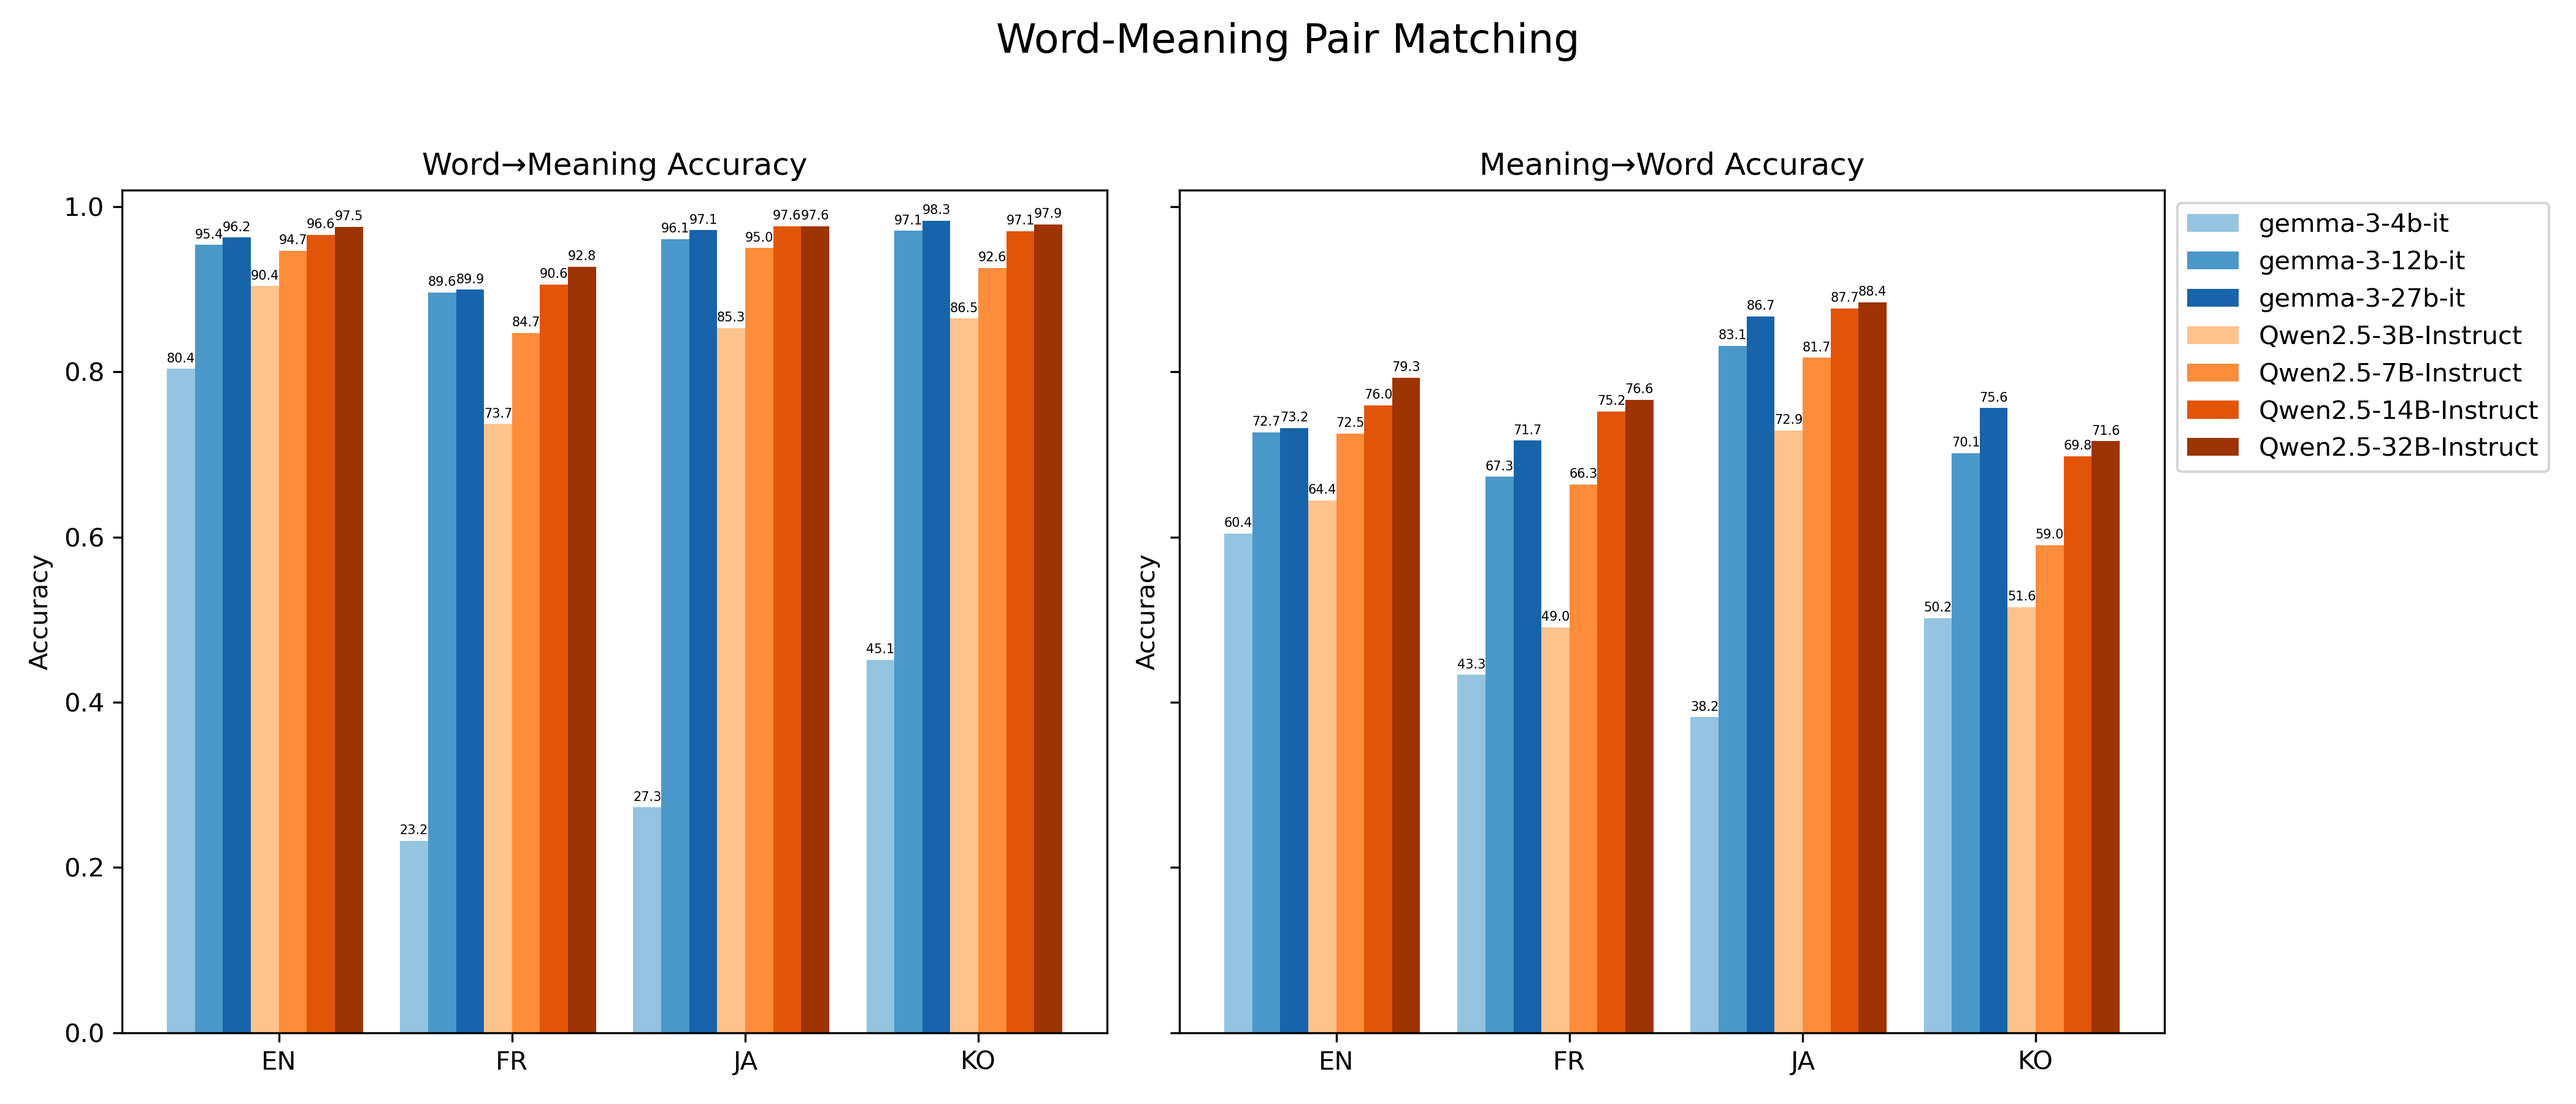
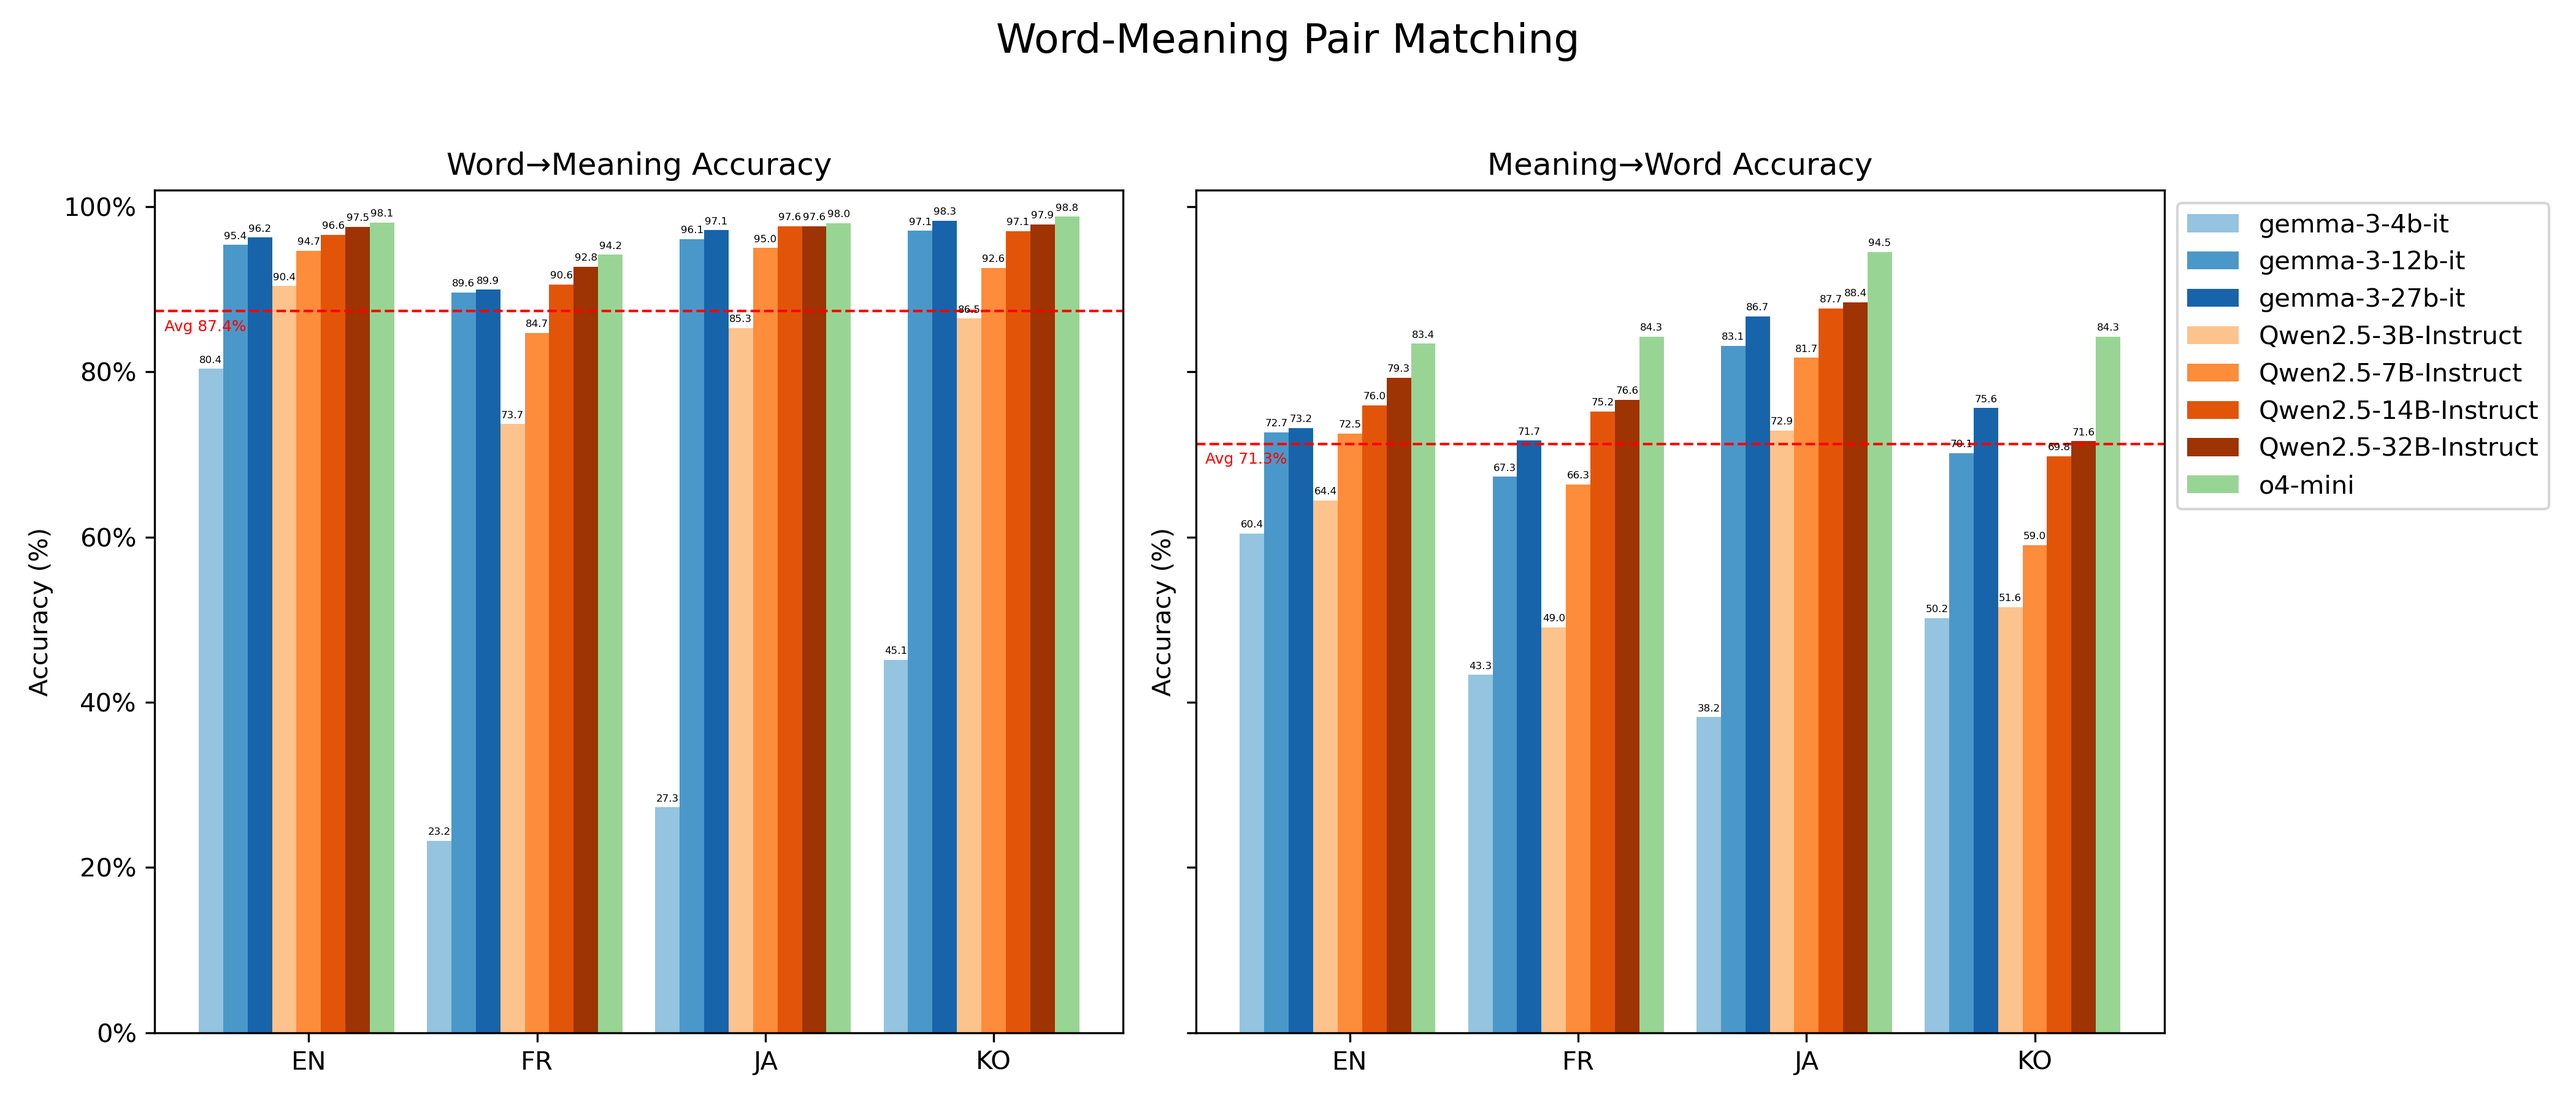
Add plots and results

diff --git a/analysis/plots/word_meaning_pair_matching_table.py b/analysis/plots/word_meaning_pair_matching_table.py
@@ -1,0 +1,101 @@
+import os
+import glob
+import json
+import pandas as pd
+import matplotlib.pyplot as plt
+
+# 1) Collect result file paths
+exp_dir = os.path.abspath(os.path.join(__file__, '..', '..', 'experiments', 'understanding'))
+files = glob.glob(os.path.join(exp_dir, 'all_results_*.json'))
+
+# 2) Load data into dict
+models = []
+cats = []
+data = {}
+for fp in files:
+    arr = json.load(open(fp, 'r', encoding='utf-8'))
+    for rec in arr:
+        m = rec['model'].split('/')[-1]
+        dp = os.path.basename(rec['data_path'])
+        lang = dp.split('-')[-1].split('.')[0].upper()
+        t = 'W→M' if 'unmasked' in dp else 'M→W'
+        cat = f'{lang} {t}'
+        data.setdefault(m, {})[cat] = rec['accuracy'] * 100
+        if m not in models: models.append(m)
+        if cat not in cats: cats.append(cat)
+
+# 3) Sort models and categories
+desired_order = [
+    'gemma-3-4b-it','gemma-3-12b-it','gemma-3-27b-it',
+    'Qwen2.5-3B-Instruct','Qwen2.5-7B-Instruct','Qwen2.5-14B-Instruct',
+    'Qwen2.5-32B-Instruct','Qwen2.5-72B-Instruct',
+    'gpt-4o','gpt-4.1','o4-mini'
+]
+models = [m for m in desired_order if m in models] + [m for m in models if m not in desired_order]
+cats = sorted(cats, key=lambda x: (x.split()[0], x.split()[1]))
+
+# 4) Build DataFrame
+df = pd.DataFrame(index=models, columns=cats)
+for m in models:
+    for c in cats:
+        df.at[m, c] = data.get(m, {}).get(c, float('nan'))
+df = df.round(1)
+
+# Convert numeric values to strings with one decimal place
+df_str = df.applymap(lambda x: f"{x:.1f}" if pd.notna(x) else "")
+
+# 5) Group columns by task and add subtotals
+# split original columns into word→meaning and meaning→word
+w2m = [c for c in cats if 'W→M' in c]
+m2w = [c for c in cats if 'M→W' in c]
+
+# extract language codes
+langs = sorted({c.split()[0] for c in cats})
+
+# build new DataFrame with MultiIndex columns
+parts = []
+# W→M block
+df_w2m = df[w2m]
+parts.append(df_w2m[ [f"{lang} W→M" for lang in langs] ])
+parts.append(pd.DataFrame(df_w2m.mean(axis=1), columns=['Avg W→M']))
+# M→W block
+df_m2w = df[m2w]
+parts.append(df_m2w[ [f"{lang} M→W" for lang in langs] ])
+parts.append(pd.DataFrame(df_m2w.mean(axis=1), columns=['Avg M→W']))
+
+df2 = pd.concat(parts, axis=1)
+
+# create MultiIndex for columns, grouping M→W block first, then W→M
+tuples = []
+# M→W block: per-language then average
+for sub in langs:
+    tuples.append(('M→W', sub))
+tuples.append(('M→W', 'Avg'))
+# W→M block: per-language then average
+for sub in langs:
+    tuples.append(('W→M', sub))
+tuples.append(('W→M', 'Avg'))
+df2.columns = pd.MultiIndex.from_tuples(tuples)
+
+# convert to string with one decimal
+df2_str = df2.applymap(lambda x: f"{x:.1f}" if pd.notna(x) else "")
+
+# 6) Plot as table
+fig, ax = plt.subplots(figsize=(df2.shape[1]*0.8, len(models)*0.3))
+ax.axis('off')
+tbl = ax.table(
+    cellText=df2_str.values,
+    rowLabels=df2.index,
+    colLabels=df2.columns,
+    cellLoc='center',
+    loc='center'
+)
+tbl.auto_set_font_size(False)
+tbl.set_fontsize(7)
+tbl.scale(1, 1.5)
+
+plt.title('Word‑Meaning Pair Matching Accuracy (%)', pad=20)
+plt.tight_layout()
+out_png = os.path.abspath(os.path.join(__file__, '..', 'word_meaning_pair_matching_table.png'))
+plt.savefig(out_png, dpi=300)
+plt.show()

diff --git a/analysis/plots/word_meaning_pair_matching.py b/analysis/plots/word_meaning_pair_matching.py
@@ -3,6 +3,7 @@ import glob
 import json
 import numpy as np
 import matplotlib.pyplot as plt
+from matplotlib.ticker import PercentFormatter
 
 # 1) Collect result file paths
 exp_dir = 'analysis/experiments/understanding'
@@ -73,6 +74,7 @@ def plot_group(ax, subcats, title):
     x = np.arange(len(subcats)) * group_width
     gemma_idx = 0
     qwen_idx = 0
+    gpt_idx = 0
     for i, m in enumerate(models):
         y = [data[m].get(c, np.nan) for c in subcats]
         # Assign color based on model family
@@ -82,6 +84,9 @@ def plot_group(ax, subcats, title):
         elif 'qwen' in m.lower():
             color = qwen_colors[qwen_idx % len(qwen_colors)]
             qwen_idx += 1
+        elif 'gpt' in m.lower() or 'o' in m.lower():
+            color = gpt_colors[gpt_idx % len(gpt_colors)]
+            gpt_idx += 1
         else:
             color = plt.get_cmap('tab10').colors[i % 10]
 
@@ -94,7 +99,7 @@ def plot_group(ax, subcats, title):
                 h + 0.005,
                 f'{h*100:.1f}',
                 ha='center', va='bottom',
-                fontsize=5
+                fontsize=4
             )
     ax.set_xticks(x + (width * num_models) / 2)
     ax.set_xticklabels([c.split()[0] for c in subcats], rotation=0, ha='center')
@@ -103,8 +108,29 @@ def plot_group(ax, subcats, title):
 plot_group(ax1, w2m_cats, 'Word→Meaning Accuracy')
 plot_group(ax2, m2w_cats, 'Meaning→Word Accuracy')
 
+# 5) Draw average lines for left/right 4 bars
+avg_w2m = np.nanmean([data[m].get(c, np.nan) for m in models for c in w2m_cats])
+avg_m2w = np.nanmean([data[m].get(c, np.nan) for m in models for c in m2w_cats])
+
+ax1.axhline(avg_w2m, color='red', linestyle='--', linewidth=1)
+ax1.text(
+    0.01, avg_w2m - 0.01,  # Move text slightly below the line
+    f'Avg {avg_w2m*100:.1f}%', color='red',
+    transform=ax1.get_yaxis_transform(),
+    va='top', ha='left', fontsize=6
+)
+
+ax2.axhline(avg_m2w, color='red', linestyle='--', linewidth=1)
+ax2.text(
+    0.01, avg_m2w - 0.01,  # Move text slightly below the line
+    f'Avg {avg_m2w*100:.1f}%', color='red',
+    transform=ax2.get_yaxis_transform(),
+    va='top', ha='left', fontsize=6
+)
+
 for ax in (ax1, ax2):
-    ax.set_ylabel('Accuracy')
+    ax.set_ylabel('Accuracy (%)')
+    ax.yaxis.set_major_formatter(PercentFormatter(xmax=1))
     ax.set_ylim(0, 1.02)
 
 ax2.legend(loc='upper left', bbox_to_anchor=(1,1))
